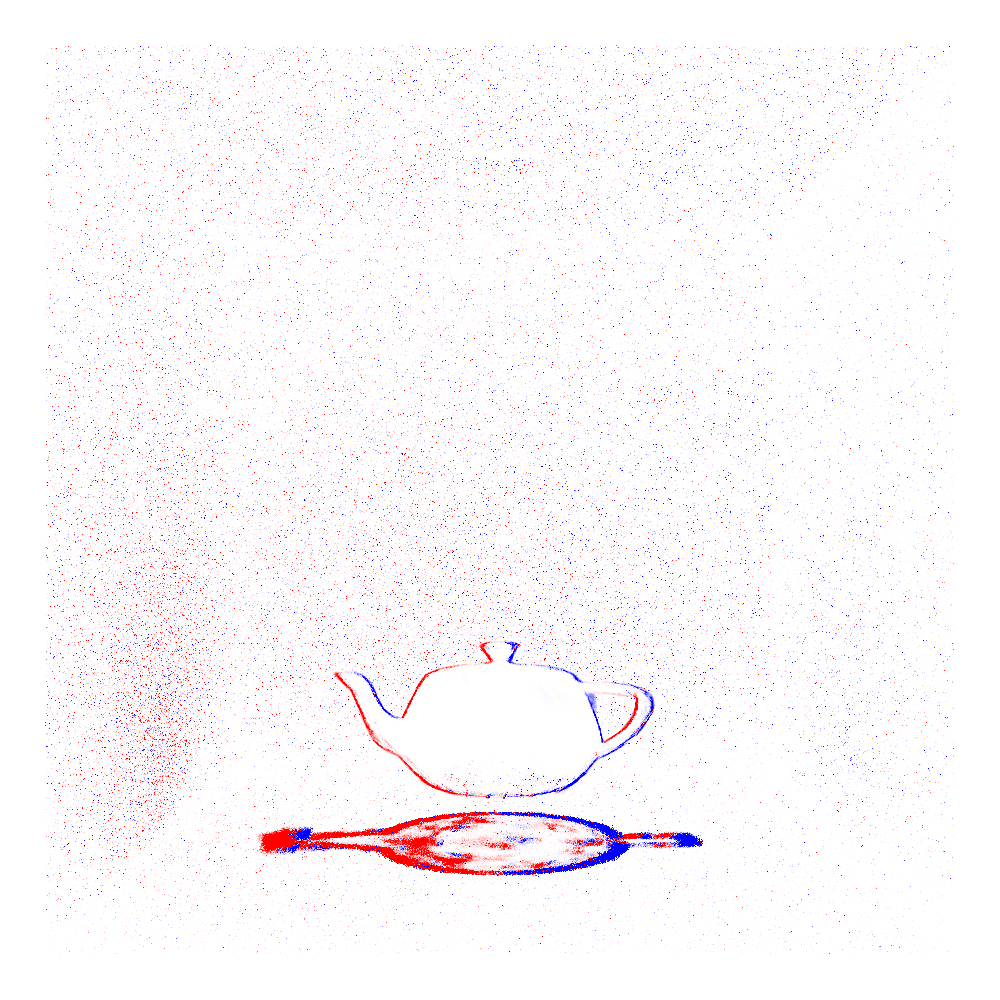
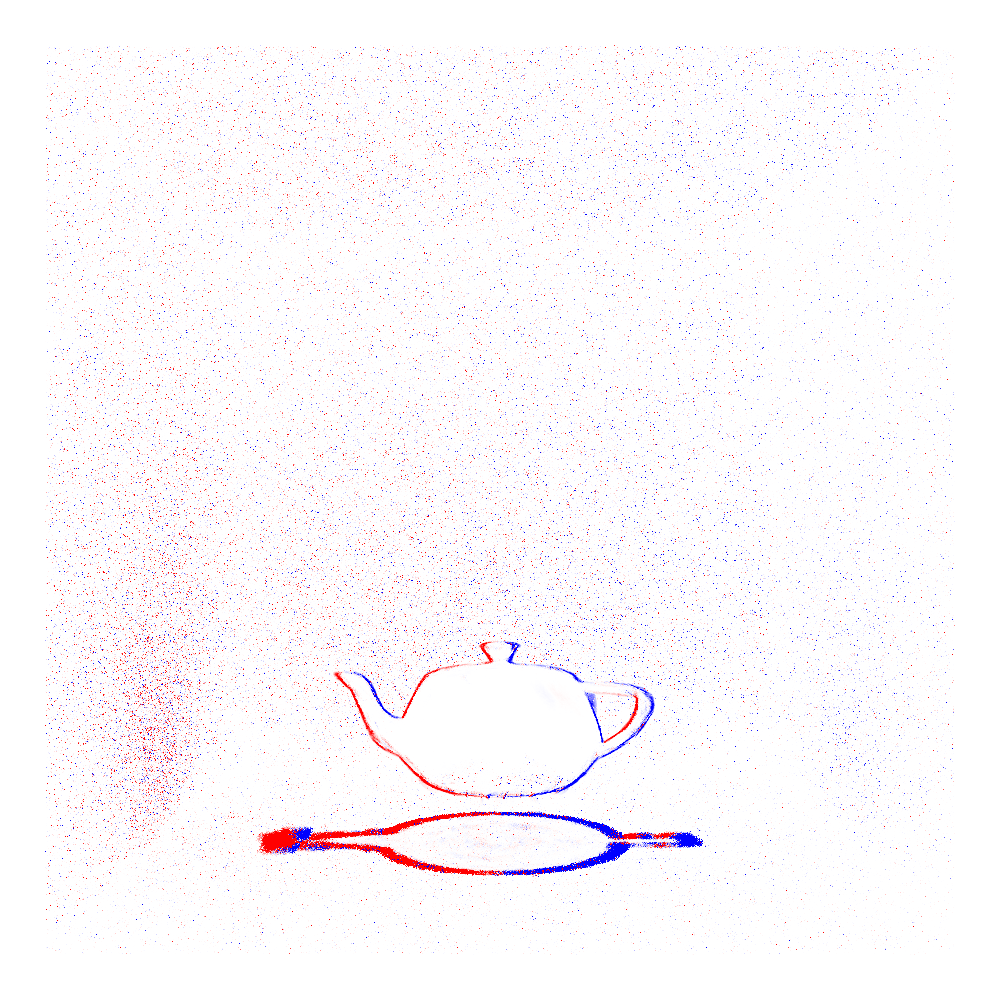
teapot comparison

diff --git a/Pale/main.cpp b/Pale/main.cpp
@@ -131,14 +131,11 @@ int main(int argc, char **argv) {
     auto entityGaussian = scene->createEntity("Gaussian");
     entityGaussian.addComponent<Pale::PointCloudComponent>().pointCloudID = assetHandle;
     auto& transform = entityGaussian.getComponent<Pale::TransformComponent>();
-    if (pointCloudPath.filename() == "target.ply") {
-        transform.setPosition(glm::vec3(0.01f, 0.0f, 0.00f));
-        Pale::Log::PA_INFO("Pertubing the target point cloud: {}", glm::to_string(transform.getPosition()));
-    }
+
 
     //transform.setRotationEuler(glm::vec3(0.0f, 0.0f, 165.0f));
     //transform.setScale(glm::vec3(0.5f, 0.5f, 0.5f));
-    //transform.setPosition(glm::vec3(0.005f, 0.0f, 0.0f));
+    //transform.setPosition(glm::vec3(0.02f, 0.0f, 0.0f));
     logSceneSummary(scene, assetManager);
 
     //FInd Sycl Device

diff --git a/Pale/Renderer/PathTracer.cpp b/Pale/Renderer/PathTracer.cpp
@@ -20,9 +20,9 @@ namespace Pale {
 
         //  cuda/rocm
         m_settings.photonsPerLaunch = 1e6; // 1e6
-        m_settings.maxBounces = 4;
-        m_settings.numForwardPasses = 4;
-        m_settings.numGatherPasses = 4;
+        m_settings.maxBounces = 6;
+        m_settings.numForwardPasses = 6;
+        m_settings.numGatherPasses = 6;
 
         m_settings.maxAdjointBounces = 4;
         m_settings.adjointSamplesPerPixel = 16;

diff --git a/Pale/Renderer/GPUDataStructures.h b/Pale/Renderer/GPUDataStructures.h
@@ -264,7 +264,7 @@ namespace Pale {
     static_assert(std::is_trivially_copyable_v<RayState>);
 
 
-    constexpr int kMaxSplatEvents = 16;
+    constexpr int kMaxSplatEvents = 48;
 
     struct SplatEvent {
         float t = FLT_MAX; // local space t
